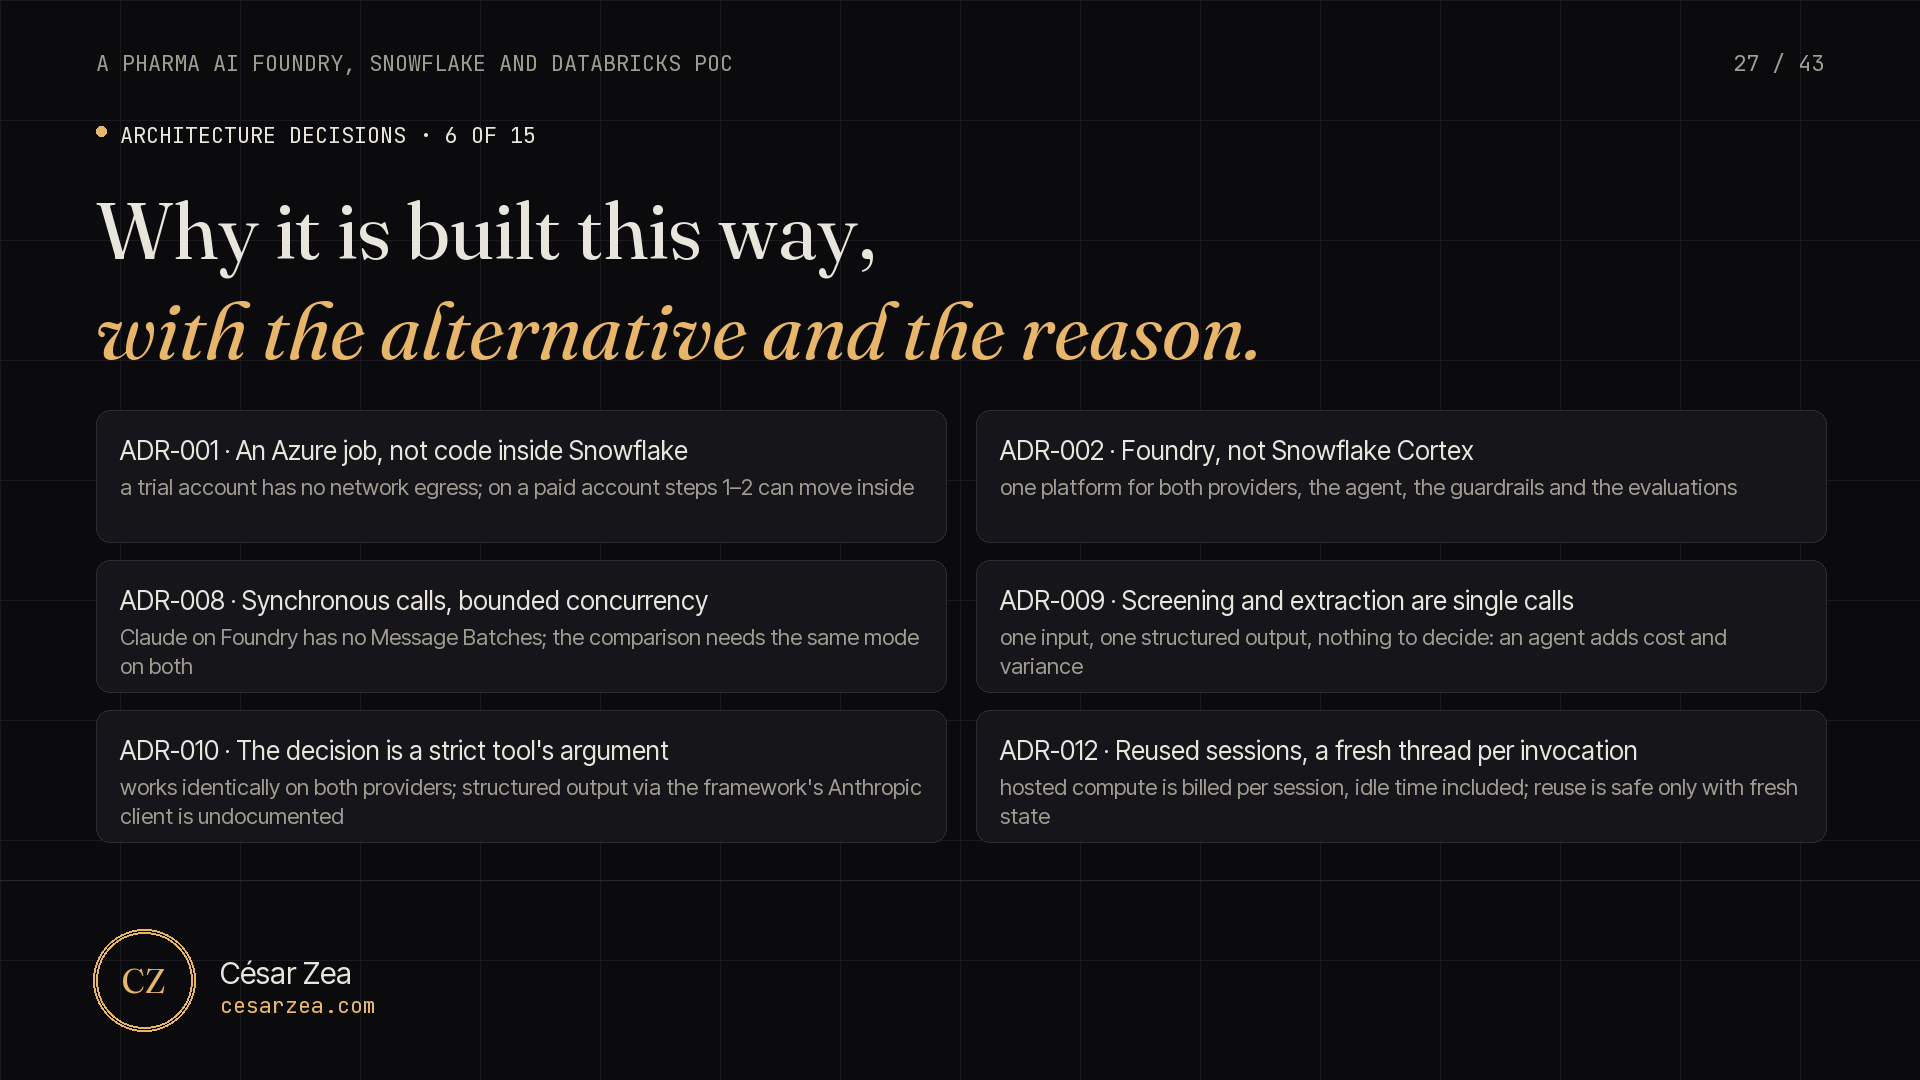
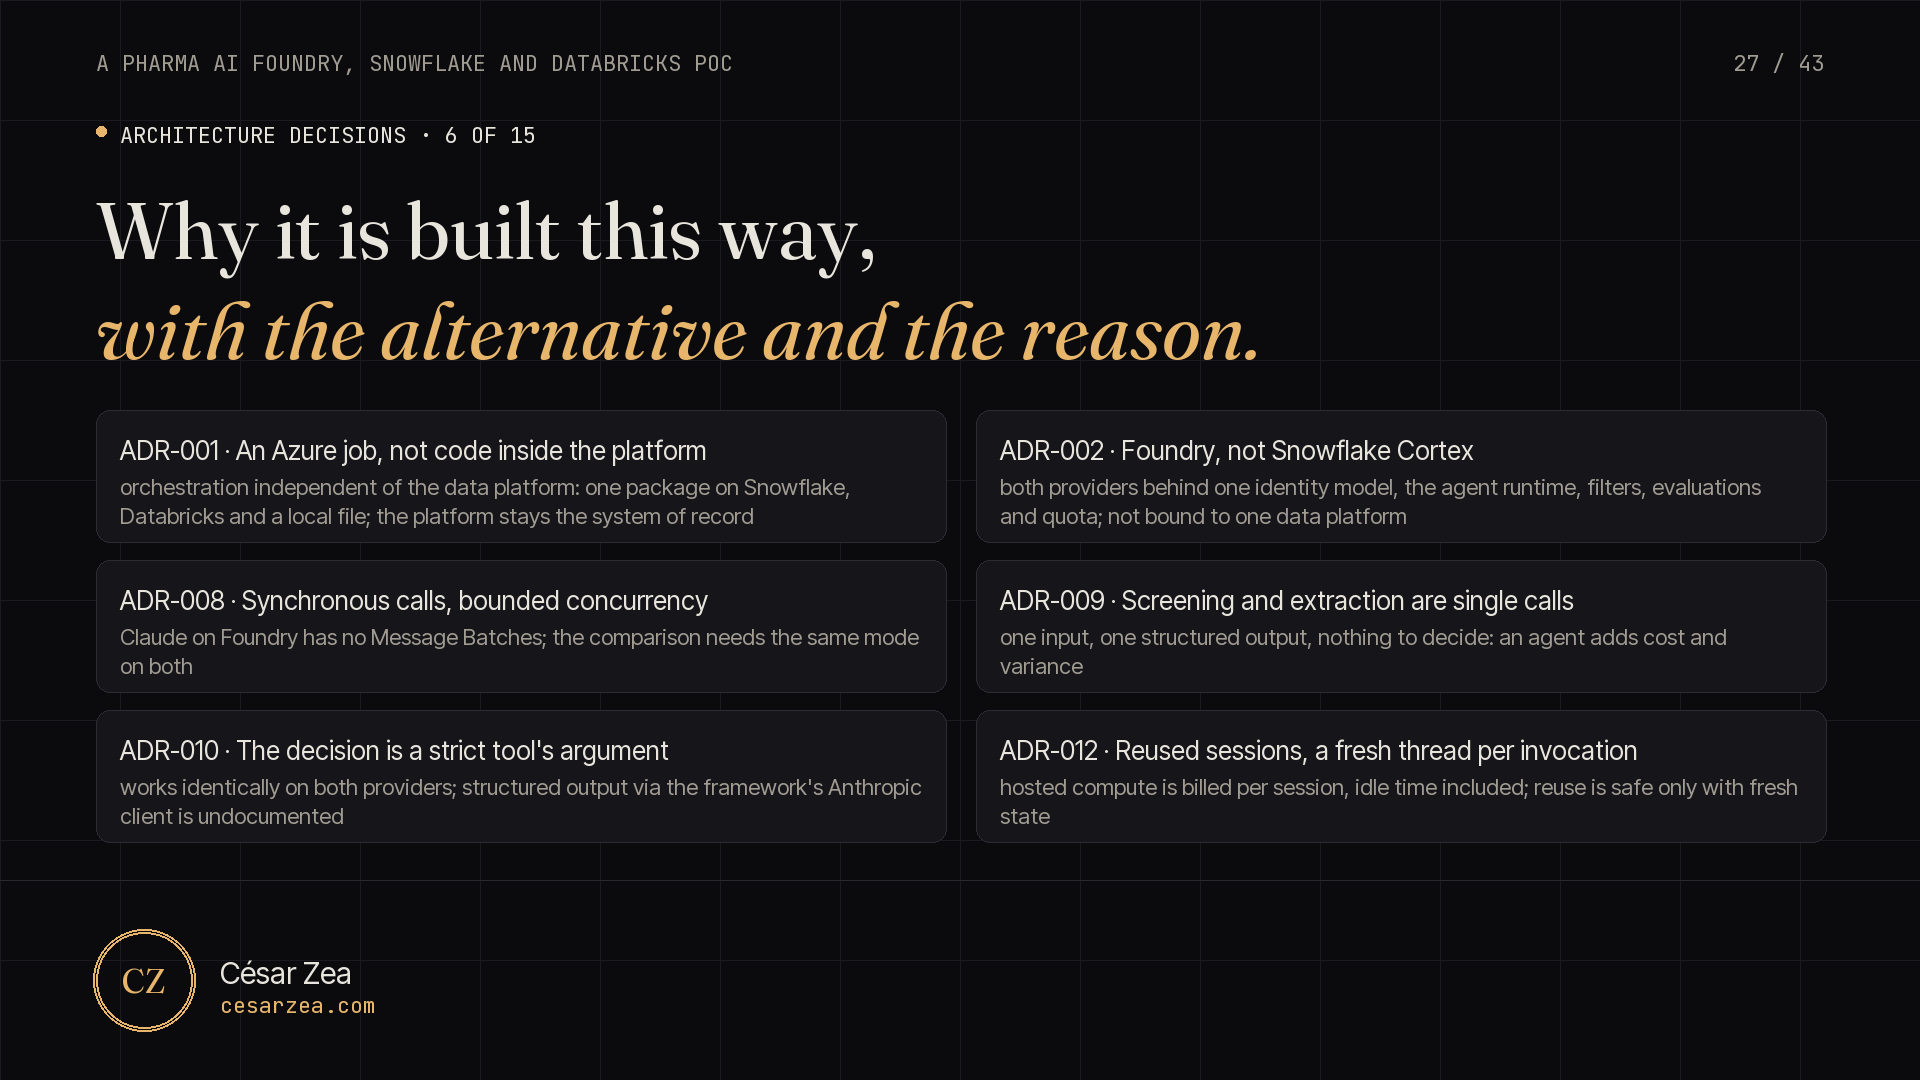
ADR-001 and ADR-002: design reasons instead of circumstances; decisions slide and narration follow

Changed region(s): [[0.0625, 0.3972, 0.4688, 0.4889], [0.5312, 0.4278, 0.9062, 0.4889]]

diff --git a/scripts/demo_full_frames.py b/scripts/demo_full_frames.py
@@ -594,8 +594,8 @@ def f_roles(n: int) -> Image.Image:
 def f_decisions(n: int) -> Image.Image:
     im, d = canvas()
     y = headline(d, "Architecture decisions · 6 of 15", "Why it is built this way,", "with the alternative and the reason.")
-    items = [("ADR-001 · An Azure job, not code inside Snowflake", "a trial account has no network egress; on a paid account steps 1–2 can move inside"),
-             ("ADR-002 · Foundry, not Snowflake Cortex", "one platform for both providers, the agent, the guardrails and the evaluations"),
+    items = [("ADR-001 · An Azure job, not code inside the platform", "orchestration independent of the data platform: one package on Snowflake, Databricks and a local file; the platform stays the system of record"),
+             ("ADR-002 · Foundry, not Snowflake Cortex", "both providers behind one identity model, the agent runtime, filters, evaluations and quota; not bound to one data platform"),
              ("ADR-008 · Synchronous calls, bounded concurrency", "Claude on Foundry has no Message Batches; the comparison needs the same mode on both"),
              ("ADR-009 · Screening and extraction are single calls", "one input, one structured output, nothing to decide: an agent adds cost and variance"),
              ("ADR-010 · The decision is a strict tool's argument", "works identically on both providers; structured output via the framework's Anthropic client is undocumented"),

diff --git a/docs/demo/script-full.md b/docs/demo/script-full.md
@@ -47,7 +47,7 @@ slides are drawn by the same script (boxes and arrows, no external renderer); *s
 | 24 | slide · seven roles, no update or delete, Databricks without key material, the append-only gap | Least privilege: seven roles, and no run-time role can update or delete | Least privilege is not three users but seven roles. An owner role used only for deployment. The pipeline, which writes results and audit. The agent, which reads its six views. The review app. Reviewers, who see patient fields unmasked. Analysts, who see report views only, masked by design. And a CI role with rights on a cloned database. No run-time role can update or delete anything, except the runner closing its own run row. On Databricks there is no key material at all: runner and agents authenticate with Entra tokens. One gap is stated honestly: Unity Catalog has no insert-only privilege, so append-only is not enforced there yet, and the fix is documented. | 40 |
 | 25 | shot · 09a Databricks catalog | The same platform on Azure Databricks: same tables, results copied, nothing recomputed | The whole platform was ported to Azure Databricks: the same schemas in Unity Catalog, the same runner and agents reading it, the same review app as a Databricks App. The SQL was verified offline with a local Spark and Delta before a workspace existed, and passed at the first real run. The processed results were copied from Snowflake rather than recomputed. One SQL directory per platform; everything else is shared. | 24 |
 | 26 | shot · 09b Databricks app reconciliation | Same numbers on both platforms | The proof is the review app on Databricks showing the same reconciliation numbers as on Snowflake, and the hosted agents answering from the Foundry sandbox against either platform. | 12 |
-| 27 | slide · six decision records with their alternative and reason | Why it is built this way: fifteen decisions, each with its alternative and its reason | The architecture document records fifteen decisions, each with the alternative and the reason. Six of them shape what you have seen. The sweep runs as an Azure job rather than inside Snowflake, because a trial account has no network egress; on a paid account the first steps can move inside. Models go through Foundry rather than Snowflake Cortex: one platform for both providers, the agent, the guardrails and the evaluations. Calls are synchronous with bounded concurrency, because Claude on Foundry has no batch API and the comparison needs the same mode on both providers. Screening and extraction are single calls, not agents: one input, one structured output, nothing to decide. The agent's decision is the argument of a strict tool, because structured output through the framework's Anthropic client is not documented. And sessions are reused with a fresh thread per invocation, because hosted compute is billed per session, idle time included. | 52 |
+| 27 | slide · six decision records with their alternative and reason | Why it is built this way: fifteen decisions, each with its alternative and its reason | The architecture document records fifteen decisions, each with the alternative and the reason. Six of them shape what you have seen. The sweep runs as an Azure job rather than as code inside the data platform, because the orchestration, the model calls, the agent invocations, the concurrency and the retries, must not depend on the platform: one package runs unchanged on Snowflake, on Databricks and on a laptop, and the platform stays the system of record. Models go through Foundry rather than Snowflake Cortex: both providers behind one identity model, with the agent runtime, the content filters, the evaluations and the quota in one place, and not bound to one data platform. Calls are synchronous with bounded concurrency, because Claude on Foundry has no batch API and the comparison needs the same mode on both providers. Screening and extraction are single calls, not agents: one input, one structured output, nothing to decide. The agent's decision is the argument of a strict tool, because structured output through the framework's Anthropic client is not documented. And sessions are reused with a fresh thread per invocation, because hosted compute is billed per session, idle time included. | 58 |
 
 ## Part 3b · Deploy it yourself, from the repository (about 2 min)
 

diff --git a/docs/architecture.md b/docs/architecture.md
@@ -252,8 +252,8 @@ flowchart LR
   HF1 & HF2 --> VOC[(REF.PT_VOCAB: demo vocabulary)]
 ```
 
-The load job runs outside Snowflake because a trial account has no external network access. The
-loader (`runner/pvsweep_load`) downloads each pinned file once into a local cache (DuckDB's remote
+The load job runs outside the data platform, like the sweep (ADR-001), so the same loader serves
+Snowflake, Databricks and the local backend. The loader (`runner/pvsweep_load`) downloads each pinned file once into a local cache (DuckDB's remote
 range reads trip Hugging Face's per-IP rate limit), transforms with DuckDB, writes Parquet to
 `data/stage/`, and `scripts/snow_load.sh` `PUT`s the files to an internal stage and `COPY`s them in.
 Every load records the dataset, revision, row counts, date offset and licence in `REF.DATA_SOURCE`.
@@ -682,8 +682,8 @@ provider and deployment that produced them.
 
 | ADR | Decision | Main alternative | Why |
 |---|---|---|---|
-| 001 | The sweep is driven by an Azure Container Apps job that reads from and writes to Snowflake | Calls from inside Snowflake through an External Access Integration | Trial accounts have no external network access. On a paid account steps 1–2 can move into Snowflake |
-| 002 | Models through Microsoft Foundry | Snowflake Cortex AI functions | The role's target stack is Foundry; one platform for both providers, the agent, guardrails and evaluations. Cortex is the natural option for a Snowflake-only variant |
+| 001 | The sweep is driven by an Azure Container Apps job that reads from and writes to the data platform | Calls from inside Snowflake through an External Access Integration | The orchestration (model calls, hosted-agent invocations, bounded concurrency, retries, resume) is kept independent of the data platform, so one package runs unchanged on Snowflake, on Databricks and on a local file, and the platform stays the system of record for data and decisions rather than a place where application code runs. The job runs under a managed identity (Entra ID to Foundry, keys from Key Vault), is testable locally and in CI, and its code version is recorded on every run. Calling models from inside the platform would tie the pipeline to one vendor's integration features; it remains an option for the single-call steps in a Snowflake-only variant |
+| 002 | Models through Microsoft Foundry | Snowflake Cortex AI functions | One platform carries both providers (GPT and Claude) behind one identity model (Entra ID, no API keys), the hosted-agent runtime, the content filters, the evaluations and the quota, with EU data-zone deployments and billing on the Azure subscription; the comparison between providers is then like for like. Cortex would bind the models to one data platform, and the design has to hold for Snowflake and Databricks alike. Cortex remains the natural option for a Snowflake-only variant |
 | 003 | Runner and agent authenticate to Snowflake with key-pair; CI with workload identity federation | Workload identity federation everywhere | Container Apps and hosted agents are not listed for Snowflake's Azure federation, and it needs tenant consent. Revisit once verified |
 | 004 | The matching agent is built with Microsoft Agent Framework and runs as hosted agents in Foundry Agent Service, one per provider, invoked through the Invocations protocol | A plain tool-calling loop in the runner | Managed runtime with agent identity, isolation, versioning, guardrails and tracing, with identical agent code for both providers. Risk: the Python hosting and Anthropic integrations are prerelease, and Snowflake egress and Claude with Entra ID are unverified. Mitigation: the spike first, and the same package runs in-process as a fallback |
 | 005 | Rules, clocks, reconciliation and follow-up drafts are deterministic SQL and templates | Let the model compute dates and draft letters | Regulatory clocks must be exact and testable; no value in a model there |
